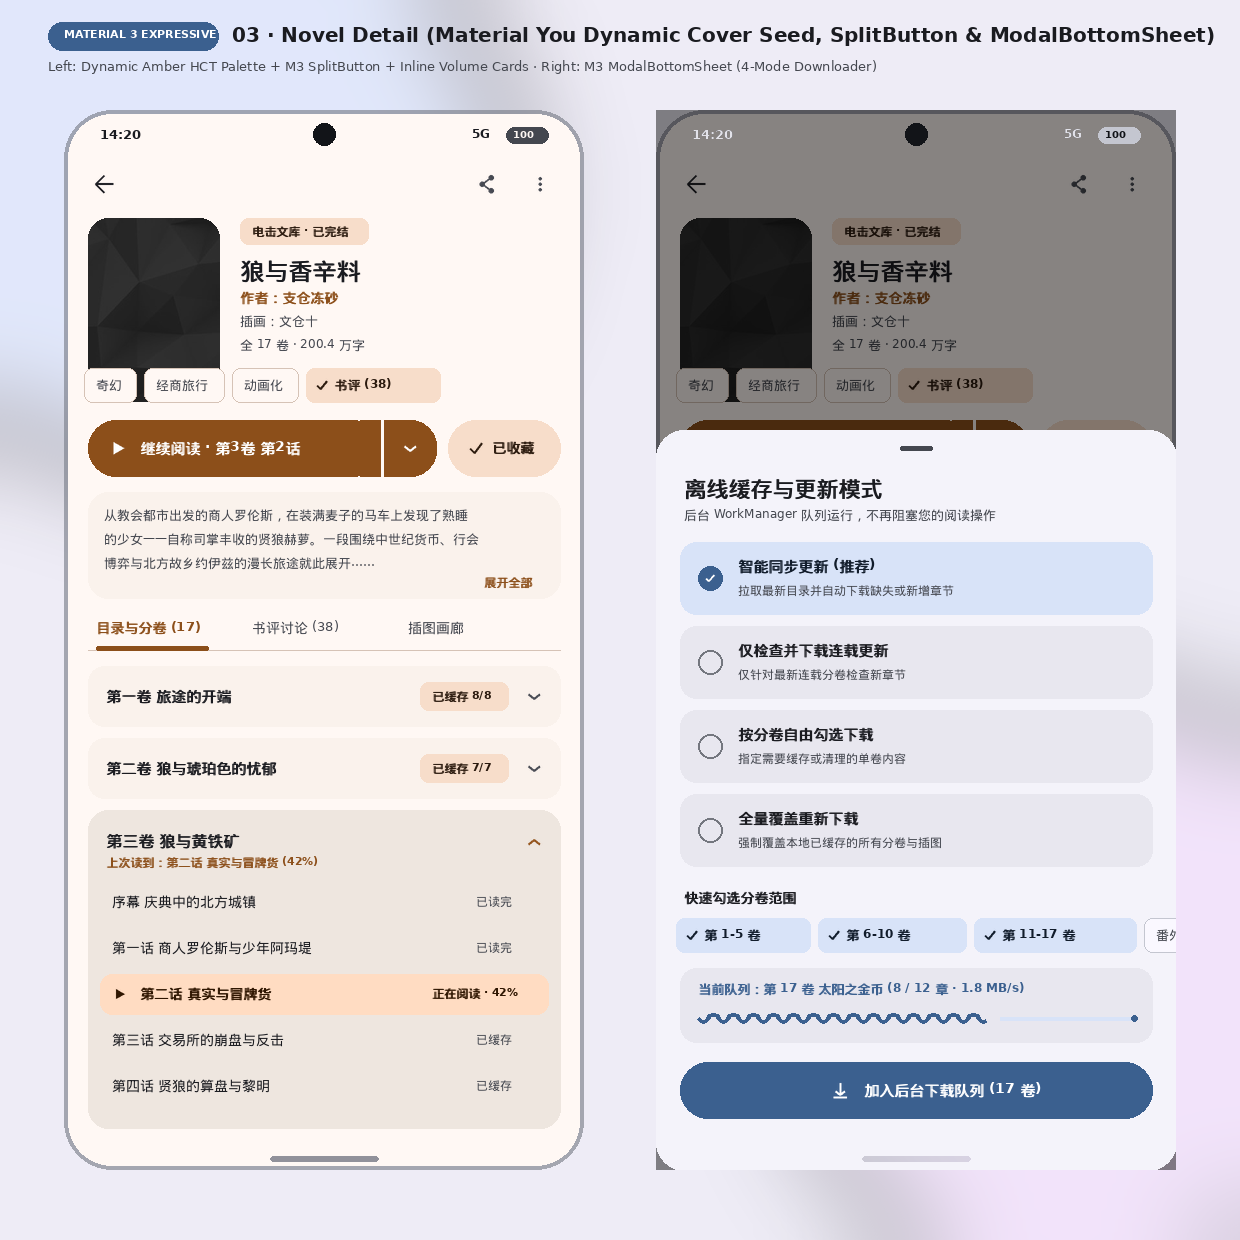
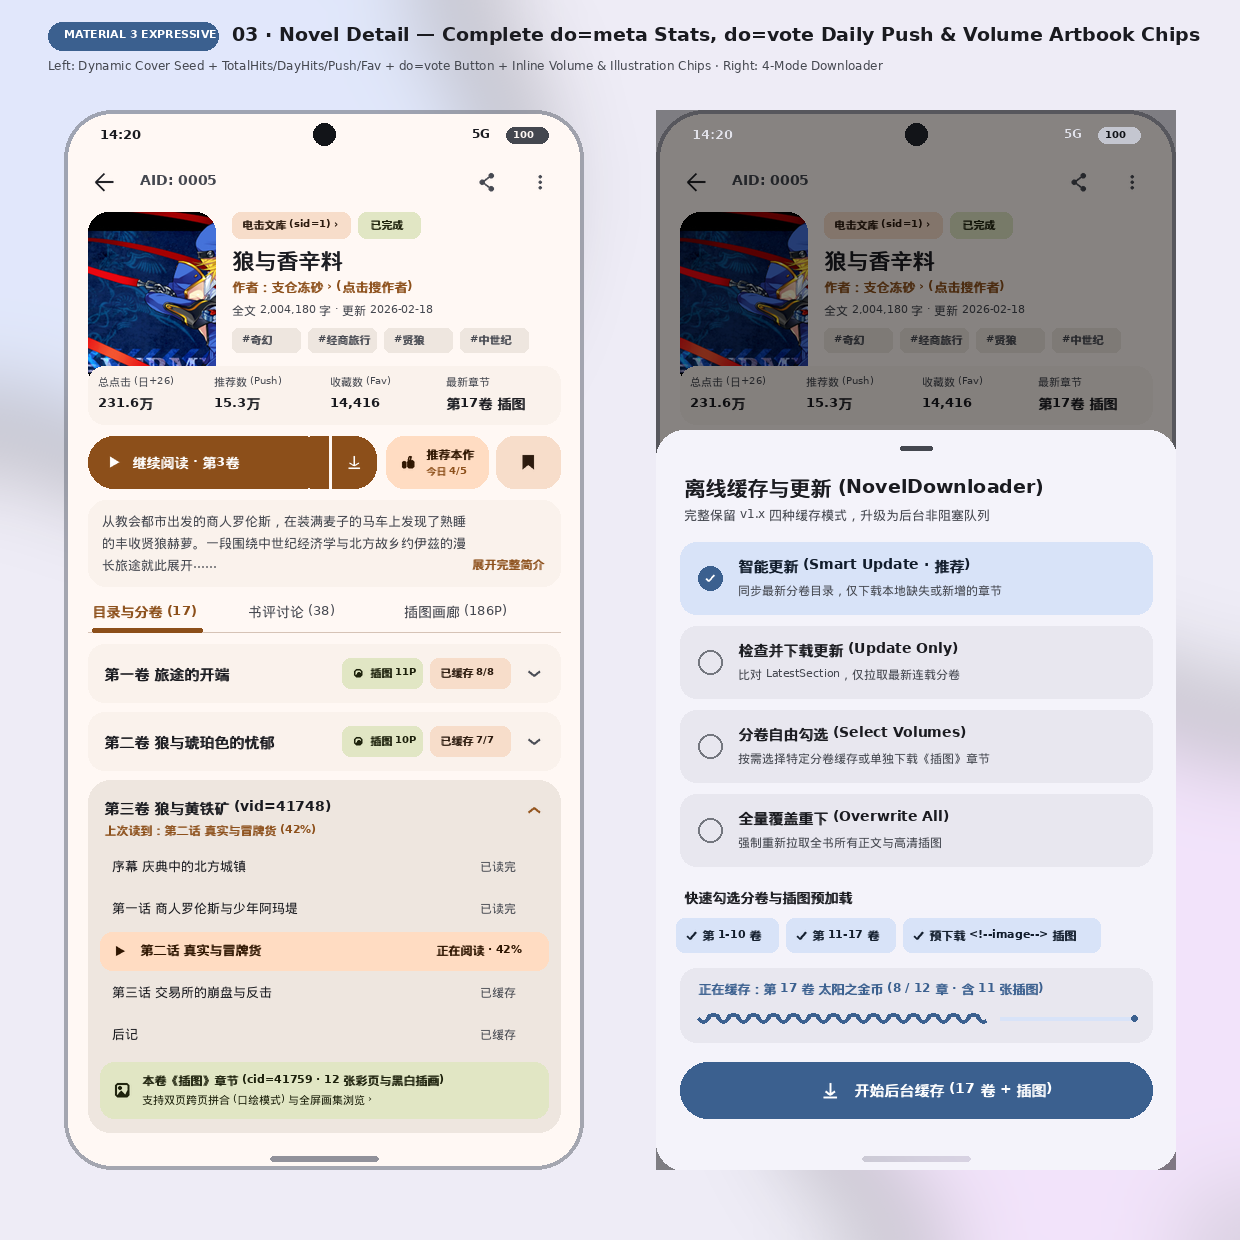
docs(v2): ground M3 UI mockups in Wenku8API endpoints and add light-novel/illustration expressive interactions (08)

diff --git a/docs/designs/v2/08-api-grounded-ui-and-expressive-interactions.md b/docs/designs/v2/08-api-grounded-ui-and-expressive-interactions.md
@@ -1,0 +1,77 @@
+# 08 · API-Grounded UI Mapping & Light Novel / Comic Expressive Interactions (`v2.0`)
+
+This document maps **every single endpoint, parameter, constraint, and parsed model** in [`Wenku8API.java`](file:///home/mewx/codes/light-novel-library_Wenku8_Android/studio-android/LightNovelLibrary/api/src/main/java/org/mewx/wenku8/api/Wenku8API.java) and `org.mewx.wenku8.global.api.*` to its exact **Material Design 3 / Material 3 Expressive** UI surface in `v2.0`, and defines **where and how M3 Expressive interactions happen** specifically for **Japanese Light Novel (Bunkobon 文库本) & Comic/Illustration (`<!--image-->` 口绘/插画) reading styles**.
+
+---
+
+## Part 1: Complete `Wenku8API` → Material 3 UI & Function Matrix
+
+### 1. Bookshelf & Cloud Bookcase APIs
+| API Method / Parser | Wire Action | Returned Fields & Constraints | `v2.0` Material 3 UI & Expressive Function |
+| :--- | :--- | :--- | :--- |
+| [`Wenku8API.getBookshelfListParams(l)`](file:///home/mewx/codes/light-novel-library_Wenku8_Android/studio-android/LightNovelLibrary/api/src/main/java/org/mewx/wenku8/api/Wenku8API.java#L593-L635) + [`BookshelfListParser`](file:///home/mewx/codes/light-novel-library_Wenku8_Android/studio-android/LightNovelLibrary/app/src/main/java/org/mewx/wenku8/global/api/BookshelfListParser.java) | `action=bookcase&t={0\|1}` | `<book aid="..." date="YYYY-MM-DD"><name>...</name><chapter cid="...">...</chapter></book>` | **Single-Request Cloud Update Diff**: Compares each cloud entry's `date` (`LastUpdate`) and `latestChapterCid` against local `.wk8` metadata. Books with newer `latestChapterCid` pop an **M3 Expressive `tertiaryContainer` badge (`新章节`)** and filter under the `有新章节` `FilterChip`. |
+| [`Wenku8API.getAddToBookshelfParams(aid)`](file:///home/mewx/codes/light-novel-library_Wenku8_Android/studio-android/LightNovelLibrary/api/src/main/java/org/mewx/wenku8/api/Wenku8API.java#L637-L645) / `getDelFromBookshelfParams(aid)` + [`BookshelfSync`](file:///home/mewx/codes/light-novel-library_Wenku8_Android/studio-android/LightNovelLibrary/app/src/main/java/org/mewx/wenku8/global/api/BookshelfSync.java) | `action=bookcase&do={add\|del}&aid={aid}` | Cloud shelf limit (~60–100 books depending on user rank); local `.wk8` shelf is unlimited | **Hybrid Cloud + Local Shelf**: Adding/removing a book morphs the M3 bookmark button (`secondaryContainer`) and syncs with cloud bookcase via `BookshelfSync`. |
+| [`BookshelfFilter.filter(shelf, query)`](file:///home/mewx/codes/light-novel-library_Wenku8_Android/studio-android/LightNovelLibrary/app/src/main/java/org/mewx/wenku8/global/api/BookshelfFilter.java) | Pure in-memory (`0ms`) | Matches `title`, `author`, and `latest_chapter` (skipping `"Loading..."` sentinels) | **Instant Docked SearchBar Filter**: Typing in the Bookshelf `SearchBar` filters the local shelf in `< 1ms` per keystroke while offering 1-tap escalation to online Wenku8 search. |
+| [`NovelDownloader`](file:///home/mewx/codes/light-novel-library_Wenku8_Android/studio-android/LightNovelLibrary/app/src/main/java/org/mewx/wenku8/global/api/NovelDownloader.java) | `do=meta` + `do=intro` + `do=list` + `do=text` | 4 modes: *Smart Update*, *Update Only*, *Select Volumes*, *Overwrite All* | **Non-Blocking M3 `ModalBottomSheet` + `LinearWavyProgressIndicator`**: Replaces `v1.x`'s blocking progress dialogs with a background `WorkManager` queue and wavy progress bar. |
+
+---
+
+### 2. Explore, 13 `NovelSortedBy` Modes & 14 Imprint Libraries
+| API Method / Parser | Wire Action | Returned Fields & Constraints | `v2.0` Material 3 UI & Expressive Function |
+| :--- | :--- | :--- | :--- |
+| [`Wenku8API.NovelSortedBy`](file:///home/mewx/codes/light-novel-library_Wenku8_Android/studio-android/LightNovelLibrary/api/src/main/java/org/mewx/wenku8/api/Wenku8API.java#L111-L155) (13 Sort Modes) | `action=mewx_articlelist` / `action=novellist` (`sort=...&page=...&t=...`) | **3 Feeds**: `lastUpdate` (最近更新), `postDate` (最新入库), `fullFlag` (完结列表)<br/>**10 Rankings**: `dayVisit`, `weekVisit`, `monthVisit`, `allVisit`, `dayVote`, `weekVote`, `monthVote`, `allVote`, `goodNum` (总收藏榜), `size` (字数排行) | **M3 `PrimaryTabRow` + 2D `SegmentedButton` / `FilterChip` Matrix**:<br/>- Top Tabs: `排行榜单` · `最近更新` · `最新入库` · `完结精品` · `文库分类(14)`<br/>- Under `排行榜单`: Metric Segmented Row (`点击榜 Visit` \| `推荐榜 Vote` \| `总收藏榜` \| `字数排行`) × Period `FilterChip`s (`周榜 week` · `日榜 day` · `月榜 month` · `总榜 all`). |
+| [`Wenku8API.getMewxNovelList`](file:///home/mewx/codes/light-novel-library_Wenku8_Android/studio-android/LightNovelLibrary/api/src/main/java/org/mewx/wenku8/api/Wenku8API.java#L357-L460) & [`NovelListWithInfoParser`](file:///home/mewx/codes/light-novel-library_Wenku8_Android/studio-android/LightNovelLibrary/app/src/main/java/org/mewx/wenku8/global/api/NovelListWithInfoParser.java) | `action=mewx_articlelist` & `action=novellist` | `aid`, `Title`, `Author`, `BookStatus`, `LastUpdate`, `Tags` (space-separated), `IntroPreview`, plus `TotalHitsCount`, `PushCount`, `FavCount` in `novellist` | **Rich M3 Filled Novel Cards**: Every ranking/feed card surfaces `Title`, `Author`, `BookStatus`, `LastUpdate`, clickable `Tags` chips, 1-line `IntroPreview`, and `点击 / 推荐 / 收藏` counters (previously discarded in `NovelListWithInfoParser.java` line 103!). |
+| [`Wenku8API.getLibraryList()`](file:///home/mewx/codes/light-novel-library_Wenku8_Android/studio-android/LightNovelLibrary/api/src/main/java/org/mewx/wenku8/api/Wenku8API.java#L485-L520) + `getNovelListByLibraryWithInfo(sortId, page, l)` | `action=xml&item=sort&t=0` & `action=novellist&sort={1..14}` | `1` 电击文库, `2` 富士见文库, `3` 角川文库, `4` MF文库J, `5` Fami通文库, `6` GA文库, `7` HJ文库, `8` 一迅社, `9` 集英社, `10` 小学馆, `11` 讲谈社, `12` 少女文库, `13` 其他文库, `14` 游戏剧本 | **First-Class Imprint / Publisher Browser**: Exposes all 14 Japanese light novel imprints (previously hidden in `v1.x`!), accessible both from the `文库分类(14)` tab and by tapping the `PressId` chip (`电击文库 sid=1`) on any Novel Detail screen. |
+
+---
+
+### 3. Online Search APIs & Cooldown Handling
+| API Method | Wire Action | Returned Fields & Constraints | `v2.0` Material 3 UI & Expressive Function |
+| :--- | :--- | :--- | :--- |
+| [`Wenku8API.searchNovelByNovelName(name, l)`](file:///home/mewx/codes/light-novel-library_Wenku8_Android/studio-android/LightNovelLibrary/api/src/main/java/org/mewx/wenku8/api/Wenku8API.java#L308-L326) | `action=search&searchtype=articlename&searchkey=...` | Returns `<item aid='...'/>` list; hydrated via `do=bookinfo` (`NovelItemInfoUpdate` LRU cache of 500 items); upstream 5s search cooldown | **M3 Fullscreen `SearchView` with Exact Scopes**:<br/>1. `按书名 (articlename)`<br/>2. `按作者 (author)`<br/>3. `AID 直达` (numeric input jumps directly to `NovelDetailScreen`)<br/>Includes a live **5s Cooldown Pill** and an instant **0ms `BookshelfFilter` Top Match Card**. |
+| [`Wenku8API.searchNovelByAuthorName(author, l)`](file:///home/mewx/codes/light-novel-library_Wenku8_Android/studio-android/LightNovelLibrary/api/src/main/java/org/mewx/wenku8/api/Wenku8API.java#L328-L334) | `action=search&searchtype=author&searchkey=...` | Returns all novels by `authorName` | Triggered from the SearchView OR by tapping the **Author name (`作者：支仓冻砂 ›`)** on any Novel Detail page! |
+
+---
+
+### 4. Novel Detail, Daily Vote (`do=vote`) & Volume/Chapter Index (`do=list`)
+| API Method / Model | Wire Action | Returned Fields & Constraints | `v2.0` Material 3 UI & Expressive Function |
+| :--- | :--- | :--- | :--- |
+| [`Wenku8API.getNovelFullMeta(aid, l)`](file:///home/mewx/codes/light-novel-library_Wenku8_Android/studio-android/LightNovelLibrary/api/src/main/java/org/mewx/wenku8/api/Wenku8API.java#L229-L249) ([`NovelItemMeta`](file:///home/mewx/codes/light-novel-library_Wenku8_Android/studio-android/LightNovelLibrary/app/src/main/java/org/mewx/wenku8/global/api/NovelItemMeta.java)) + `getNovelShortInfoUpdate_CV` (`do=bookinfo`) | `action=book&do=meta` & `action=book&do=bookinfo` | `aid`, `Title`, `Author`, `DayHitsCount`, `TotalHitsCount`, `PushCount`, `FavCount`, `PressId` (`sid`), `BookStatus`, `BookLength`, `LastUpdate`, `LatestSection` (`cid`), `Tags` | **Complete Metadata Header + 4-Column Tonal Stat Strip**:<br/>- Clickable `PressId` chip (`电击文库 sid=1`)<br/>- Clickable `Author` link (`支仓冻砂 ›`)<br/>- `BookLength` (`全文 2,004,180 字`) & `LastUpdate`<br/>- 4-stat tonal card: `总点击 (日+DayHits)` · `推荐数 (PushCount)` · `收藏数 (FavCount)` · `最新章节 (LatestSection)`. |
+| [`Wenku8API.getVoteNovelParams(aid)`](file:///home/mewx/codes/light-novel-library_Wenku8_Android/studio-android/LightNovelLibrary/api/src/main/java/org/mewx/wenku8/api/Wenku8API.java#L570-L573) | `action=book&do=vote&aid={aid}` | Recommends the novel (requires login, max 5 votes/day on Wenku8) | **New Exposable Feature — M3 Expressive "推荐本作" Button**: Tapping `👍 推荐本作` morphs the button into a `MaterialShapes.Sunny` burst, increments `PushCount` with an animated rolling counter, and tracks remaining daily votes (`今日 4/5`). |
+| [`Wenku8API.getNovelIndex(aid, l)`](file:///home/mewx/codes/light-novel-library_Wenku8_Android/studio-android/LightNovelLibrary/api/src/main/java/org/mewx/wenku8/api/Wenku8API.java#L251-L286) ([`VolumeList`](file:///home/mewx/codes/light-novel-library_Wenku8_Android/studio-android/LightNovelLibrary/app/src/main/java/org/mewx/wenku8/global/api/VolumeList.java) / [`ChapterInfo`](file:///home/mewx/codes/light-novel-library_Wenku8_Android/studio-android/LightNovelLibrary/app/src/main/java/org/mewx/wenku8/global/api/ChapterInfo.java)) | `action=book&do=list&aid={aid}` | `<volume vid="..."><chapter cid="...">序章</chapter>...<chapter cid="...">插图</chapter></volume>` | **Inline Expandable Volume Cards + Dedicated `插图` Quick-Chips**: Automatically detects `<chapter>插图</chapter>` in each volume and renders a `tertiaryContainer` **`🖼 插图 12P` AssistChip** on the collapsed volume header and a rich **Artbook Preview Card** at the bottom of the expanded volume! |
+
+---
+
+### 5. Chapter Content (`do=text`), Reviews (`action=review`) & User Account (`action=userinfo` / `sign`)
+| API Method / Model | Wire Action | Returned Fields & Constraints | `v2.0` Material 3 UI & Expressive Function |
+| :--- | :--- | :--- | :--- |
+| [`Wenku8API.getNovelContent(aid, cid, l)`](file:///home/mewx/codes/light-novel-library_Wenku8_Android/studio-android/LightNovelLibrary/api/src/main/java/org/mewx/wenku8/api/Wenku8API.java#L288-L300) | `action=book&do=text&aid={aid}&cid={cid}` | Plain text paragraphs + `<!--image-->http://pic.wenku8.cn/pictures/...jpg<!--image-->` tags | **Hybrid Light Novel + Comic/Artbook Reader**: Renders paragraphs with CJK *Kinsoku Shori* and inline `<!--image-->` Art Cards that expand via **Shared-Bounds Spring** into an **In-Reader Artbook/Spread Mode** (see Part 2). |
+| [`Wenku8API.getCommentListParams`](file:///home/mewx/codes/light-novel-library_Wenku8_Android/studio-android/LightNovelLibrary/api/src/main/java/org/mewx/wenku8/api/Wenku8API.java#L666-L700), `getCommentContentParams`, `getCommentNewThreadParams`, `getCommentReplyParams` | `action=review&do={list\|show\|post\|reply}` | `Review`: `rid`, `title`, `postTime`, `noReplies`, `lastReplyTime`, `userName`, `uid`<br/>`ReviewReply`: `replyTime`, `userName`, `uid`, `content`<br/>**Rules**: `MIN_REPLY_TEXT = 7`, `searchBadWords()`, `10s` post cooldown, GBK Base64 | **M3 Review Thread with Real UID Avatars & Live Pre-Submit Bar**:<br/>- Loads real user avatars via `Wenku8API.getAvatarURL(uid)` (`https://avatar.wenku8.com/(uid/1000)/uid.jpg`)!<br/>- Reply composer displays live status chips for `>= 7 字`, `searchBadWords()` check, and a `10s` cooldown timer. |
+| [`Wenku8API.getUserInfoParams()`](file:///home/mewx/codes/light-novel-library_Wenku8_Android/studio-android/LightNovelLibrary/api/src/main/java/org/mewx/wenku8/api/Wenku8API.java#L549-L568) ([`UserInfo`](file:///home/mewx/codes/light-novel-library_Wenku8_Android/studio-android/LightNovelLibrary/app/src/main/java/org/mewx/wenku8/global/api/UserInfo.java)) + `getUserSignParams()` + `getUserAvatar()` | `action=userinfo`, `action=block&do=sign`, `action=avatar` | `uname`, `nickname`, `uid`, `score` (现有积分), `experience` (经验值), `rank` (头衔); `do=sign` adds `+1 score/day` | **Profile & Material You Settings**: Displays avatar (`action=avatar`), `nickname`, `uname`, `uid`, `rank` badge, `score` & `experience` tonal cards, and an **M3 Expressive Check-In Button (`action=block&do=sign`)** that morphs shape and increments `score` by `+1`. |
+
+---
+
+## Part 2: Where Material 3 Expressive Interactions Happen for Light Novel & Comic/Illustration Styles
+
+Japanese Light Novels (文库本) differ fundamentally from plain-text webnovels: every volume combines **literary typography** with **color frontispieces (`口绘`, often 2-page wide spreads)** and **full-page black-and-white character/scene illustrations (`插图`)**. Here is where M3 Expressive interactions bring that experience to life:
+
+### 1. Inline `<!--image-->` Art Cards → Shared-Bounds Comic/Artbook Lightbox (`UnifiedReaderScreen`)
+- **In-Chapter Presentation**: When `WenkuReaderLoaderXML` parses `<!--image-->...<!--image-->`, the Reader renders an **M3 Expressive Art Card** (`20dp` rounded corners, subtle tonal frame, caption `插图 03`, and a floating pill `🖼 轻触展开插图画集 (12P)`).
+- **Expressive Shared-Bounds Expansion**: Tapping or pinching-out on any inline illustration triggers a **`SharedTransitionLayout` Spatial Spring (`dampingRatio = 0.72f, stiffness = 380f`)** that expands the image seamlessly into the **In-Reader Artbook & Comic Spread Overlay** without launching a separate Activity or losing your reading place.
+- **Double-Page Spread Mode (`跨页拼合` for Light Novel `口绘`)**: Light novel color frontispieces (`口绘 01–02`) are frequently split into two consecutive vertical JPEG URLs by Wenku8. A 1-tap **`跨页拼合: 开` (`SegmentedButton` / `FilterChip`)** stitches paired landscape/spread pages side-by-side (supporting right-to-left Japanese order or left-to-right order) with zero seam gap and 4× pinch-to-zoom!
+- **M3 Multi-Browse Thumbnail Scrubber Strip**: At the bottom of the Artbook overlay, all illustrations in the current volume are displayed in an **M3 `HorizontalMultiBrowseCarousel`** thumbnail strip where the currently focused illustration dynamically expands width (`104dp`) while adjacent thumbnails compress (`76dp`).
+
+### 2. Volume-Level `<chapter>插图</chapter>` Quick-Jump (`BookshelfScreen` & `NovelDetailScreen`)
+- Because `Wenku8API.getNovelIndex` (`do=list`) places a dedicated `<chapter>插图</chapter>` at the end of almost every volume, `v2.0` automatically detects this chapter and surfaces a **`tertiaryContainer` `🖼 插图` AssistChip** right on the collapsed Volume row (Board 03) and on the Bookshelf detailed list card (Board 01 Right).
+- Readers who want to admire a volume's artwork—or flip through a cached volume like an artbook—can tap `🖼 插图 12P` to open the **Artbook & Comic Spread Viewer** directly!
+
+### 3. Four Light Novel / Comic Reading Postures (`SingleChoiceSegmentedButtonRow`)
+Inside the Reader's M3 `ModalBottomSheet` (Board 04 Right), readers can switch live between 4 postures tailored to how light novels and manga/illustrations are read:
+1. **`仿真翻页` (3D Page Curl / Bunkobon Page Turn)**: Touch-tracked 3D page peel with spine shadow.
+2. **`平滑覆盖` (M3 Expressive Spring Slide)**: Physics-driven horizontal page cards with velocity-aware fling.
+3. **`条漫卷轴` (Continuous Webtoon / Vertical Strip Stream)**: Seamless vertical scrolling across chapters and full-width illustrations (ideal for illustration-heavy chapters and one-handed thumb scrolling).
+4. **`文库竖排` (Japanese Bunkobon Right-to-Left Vertical CJK)**: Traditional vertical right-to-left columns (`「……」` vertical quotation marks, CJK *Kinsoku Shori* punctuation hanging, right-to-left page turn) matching physical Dengeki / Kadokawa bunkobon editions.
+
+### 4. Live Translucent Typography Slider Preview + Scrubber Undo Chip
+- **Android 16 Vertical-Handle `Slider`s**: Pressing and dragging the `字号大小` or `行距与段距` vertical-handle slider fades the `ModalBottomSheet` surface to **15% opacity (`85%` transparent)** using `MotionScheme.expressive().fastEffectsSpec()`, so the reader sees the actual light novel paragraphs and inline `<!--image-->` cards reflow underneath their finger in real time.
+- **Scrubber `还原至第 X 页` AssistChip**: Dragging the chapter page slider pops an M3 `AssistChip` (`↩ 还原至第 4 页`) so accidental scrubs or quick peeks ahead in a volume can be undone in 1 tap.

diff --git a/docs/designs/v2/README.md b/docs/designs/v2/README.md
@@ -14,7 +14,8 @@ Welcome to the design and architectural documentation for **Wenku8 Android `v2.0
 | **04** | [`04-user-flow-and-information-architecture.md`](./04-user-flow-and-information-architecture.md) | Complete redesign of the app's user flows: replacing the 2015 Hamburger Drawer and disconnected Activities with a 3-pillar Adaptive Shell (`Bookshelf`, `Explore`, `Profile`), foldable `ListDetailPaneScaffold`, 1-tap reading resume, 2D Ranking Matrix, Unified Search Studio, and non-blocking `WorkManager` download queue. |
 | **05** | [`05-screen-by-screen-ui-specifications.md`](./05-screen-by-screen-ui-specifications.md) | Detailed wireframes, component hierarchies, shared-element keys, and micro-interaction specs for all 9 screens (`AdaptiveMainScaffold`, `BookshelfScreen`, `ExploreScreen`, `UnifiedSearchScreen`, `NovelDetailScreen`, `ReviewScreens`, `UnifiedReaderScreen`, `ImageDetailScreen`, `ProfileAndStudioScreen`). |
 | **06** | [`06-technical-architecture-and-migration-plan.md`](./06-technical-architecture-and-migration-plan.md) | Technical blueprint & 6-phase incremental roadmap: wrapping the 328-test pure-logic domain seams and `:api` submodule in Kotlin Coroutines + Compose ViewModels, executing `STORAGE_MIGRATION_PLAN.md` (Room SQLite + Preferences DataStore), and upgrading `WenkuReaderPaginator` with CJK *Kinsoku Shori*. |
-| **07** | [`07-ui-mockups-and-interactive-prototype.md`](./07-ui-mockups-and-interactive-prototype.md) | **Visual UI Mockups & Interactive Prototype**: 6 high-DPI side-by-side screen mockup boards (`mockups/01..06.png`) + an interactive clickable HTML5/CSS3/JS prototype (`mockups/interactive-prototype.html`) covering all 4 lighting modes, 3D Spine Carousel, inline Volume Accordions, and live transparent reader slider preview. |
+| **07** | [`07-ui-mockups-and-interactive-prototype.md`](./07-ui-mockups-and-interactive-prototype.md) | **Visual UI Mockups & Interactive Prototype**: 6 high-DPI side-by-side Material Design 3 & M3 Expressive screen mockup boards (`mockups/01..06.png`) + an interactive clickable HTML5/CSS3/JS prototype (`mockups/interactive-prototype.html`). |
+| **08** | [`08-api-grounded-ui-and-expressive-interactions.md`](./08-api-grounded-ui-and-expressive-interactions.md) | **API-Grounded UI Mapping & Light Novel / Comic Expressive Interactions**: Exhaustive 1:1 mapping of `Wenku8API.java` (13 `NovelSortedBy` sorts, 14 `getLibraryList` imprints, `do=meta` stats, `do=vote` daily push, `searchtype=articlename\|author`, `BookshelfListParser` diff, `ReviewList` 10s/7-char rules, `UserInfo` + `do=sign`) and M3 Expressive interactions for Light Novel & Comic/Illustration (`<!--image-->` Artbox, double-page `口绘` spread, volume `<chapter>插图</chapter>` quick-chips, Bunkobon vertical mode). |
 
 ---
 
